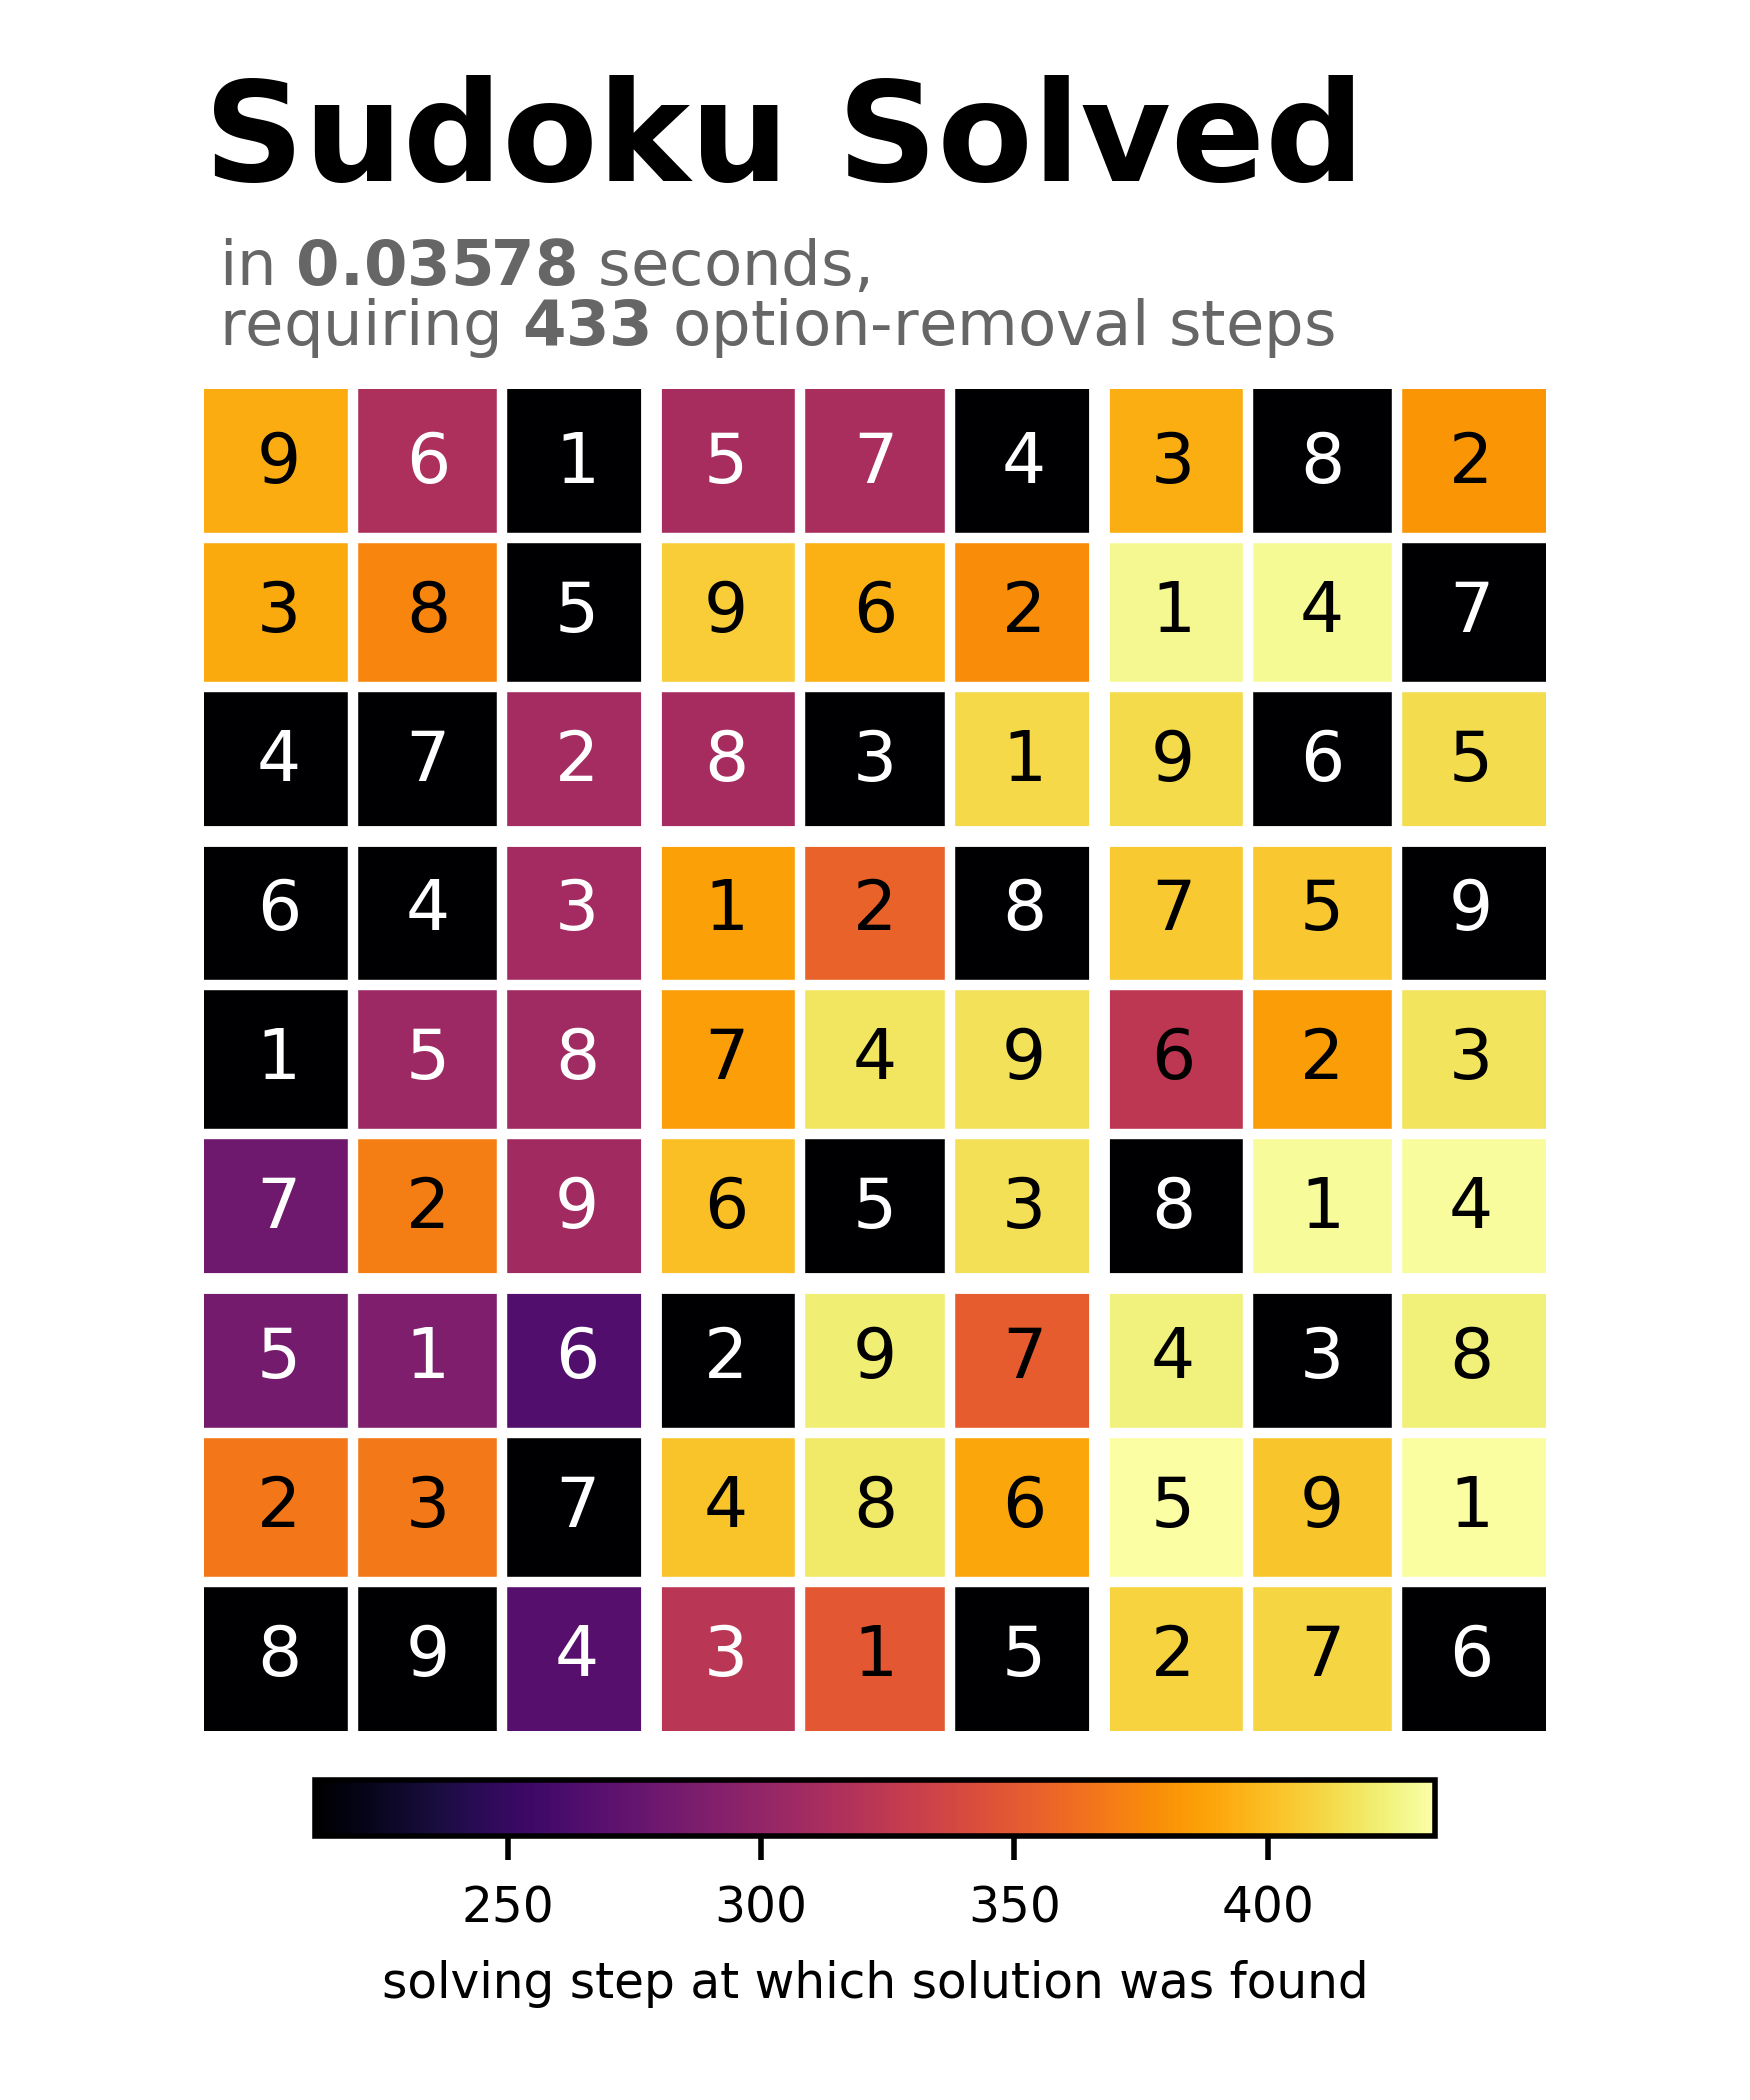
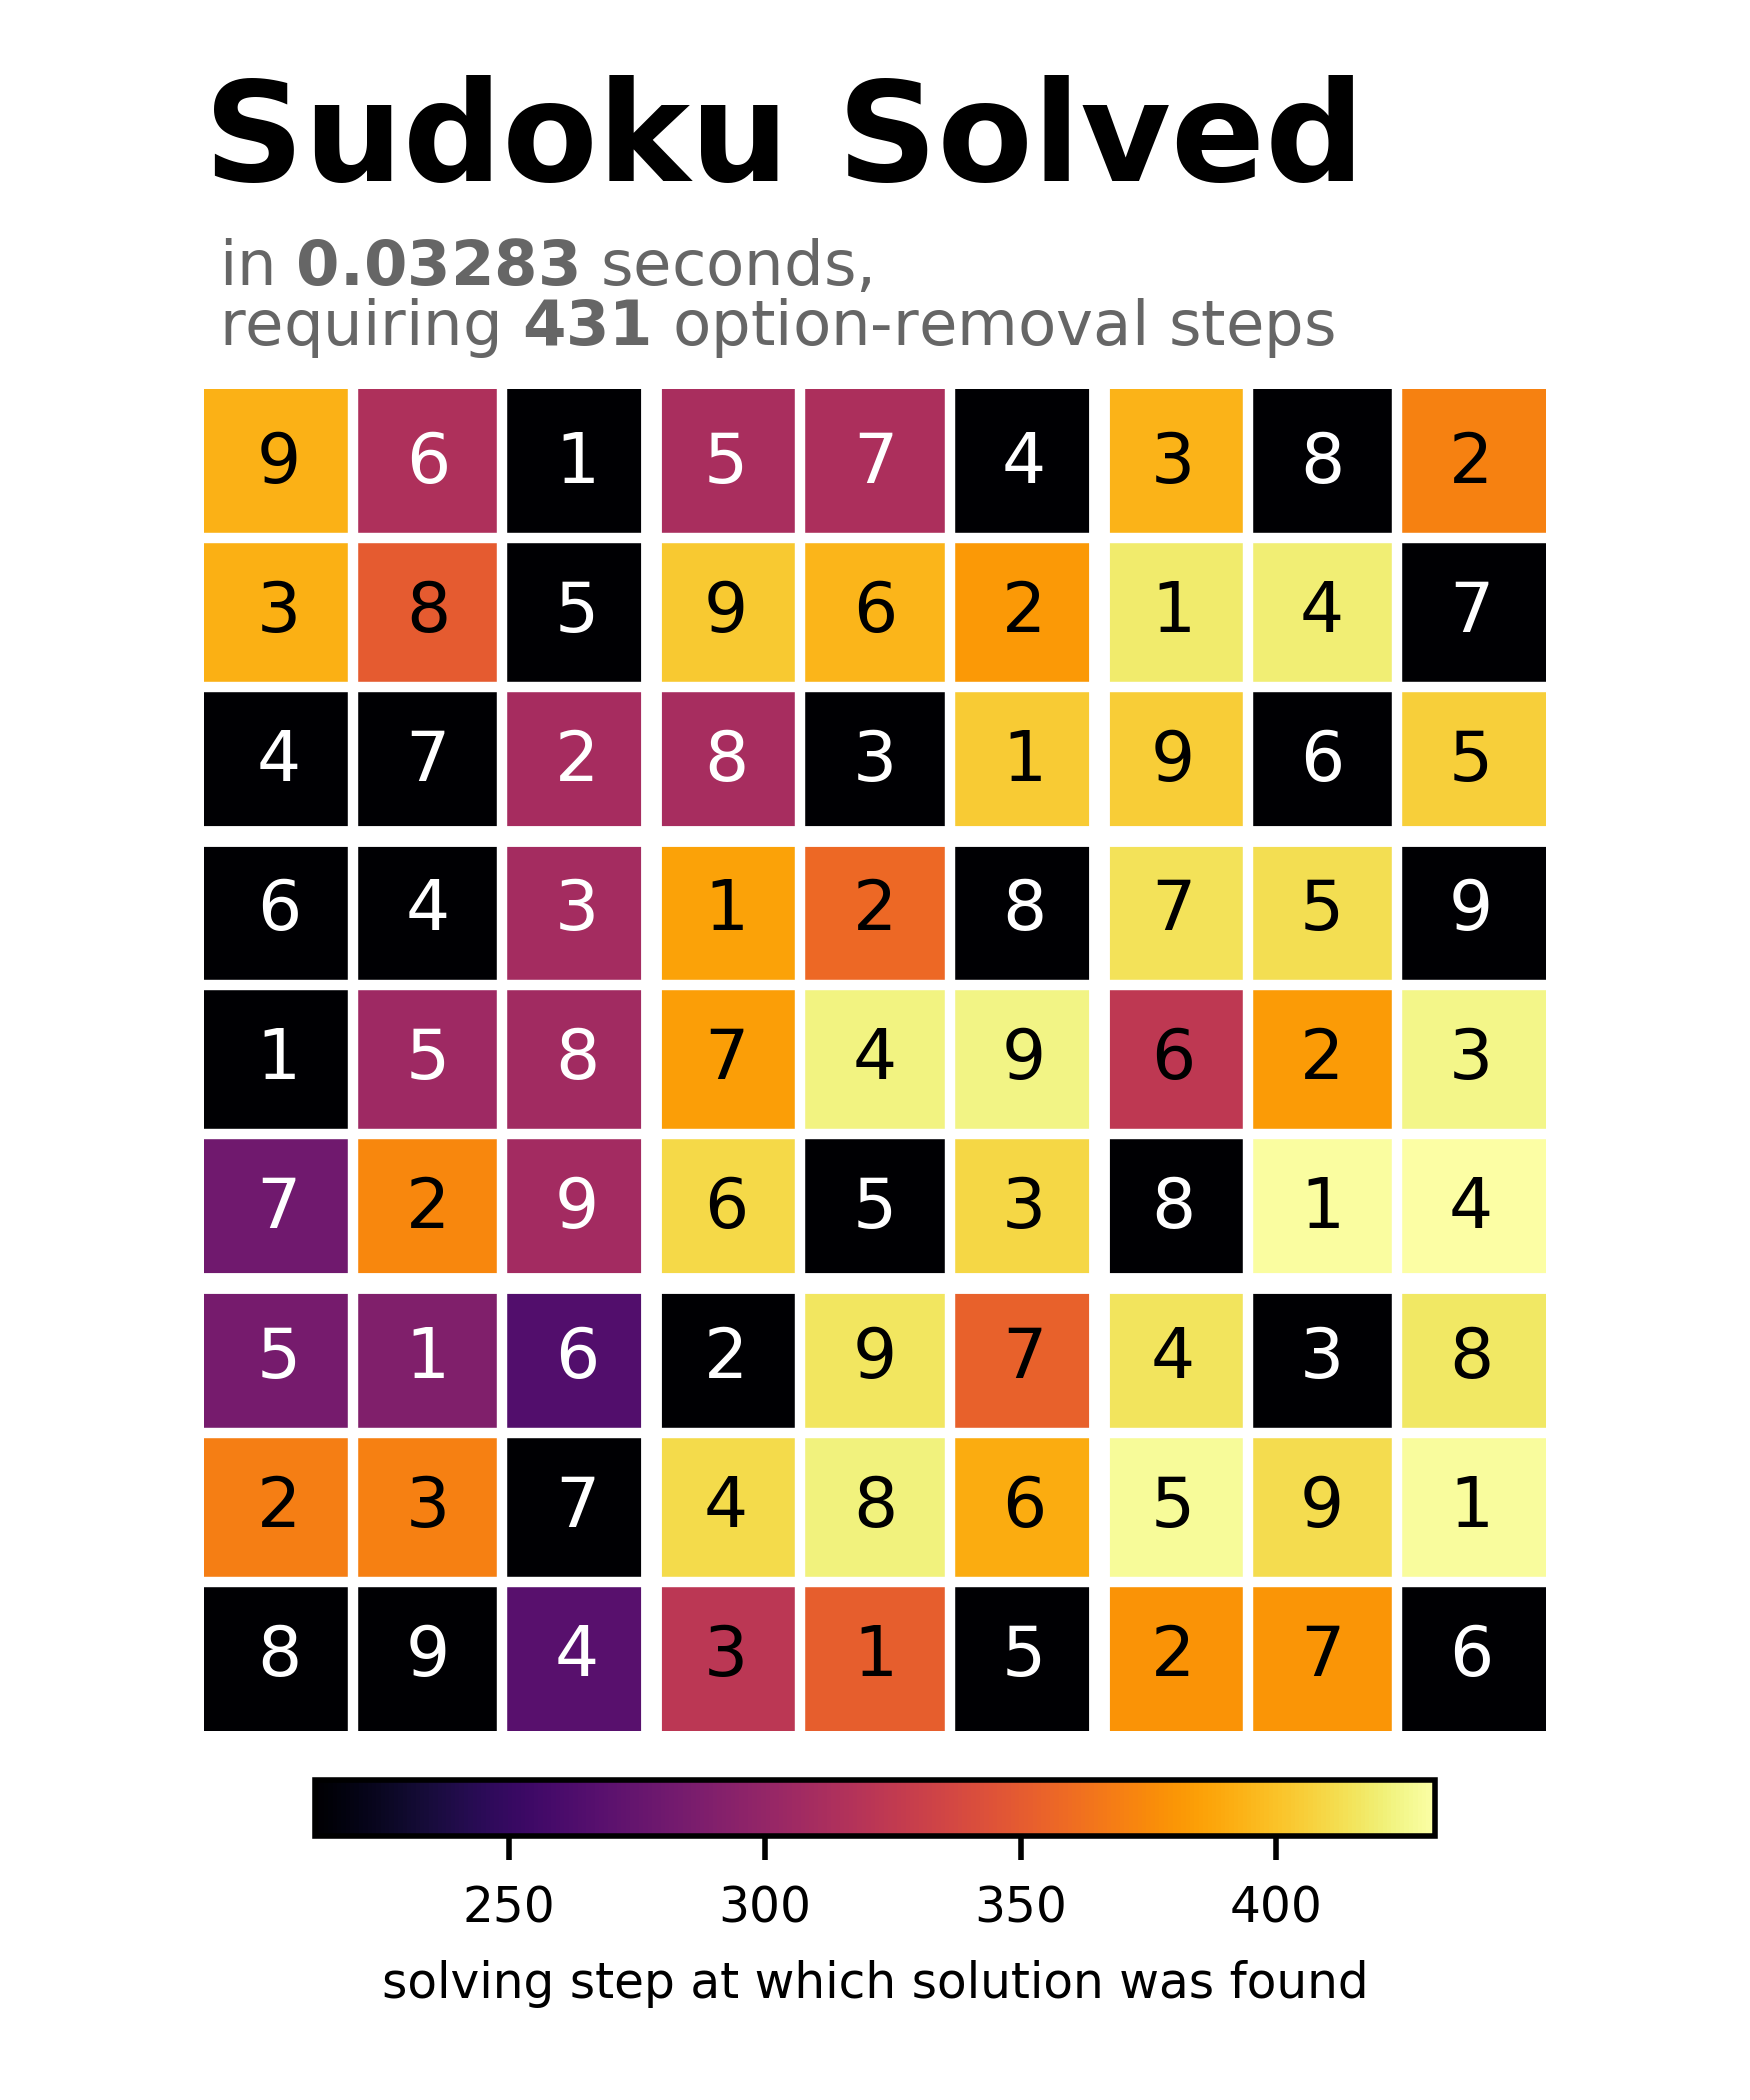
update README

diff --git a/use/example.py b/use/example.py
@@ -9,7 +9,7 @@ from matplotlib import pyplot as plt
 
 def solve(s: Sudoku) -> Sudoku:
     stepper = Skipper(print_grid)
-    solver = generate_solver([NTilesNOptions, XWing, YWing, Bifurcation], stepper)
+    solver = generate_solver([XWing, NTilesNOptions, YWing, Bifurcation], stepper)
     t0 = perf_counter()
     s = solver.launch(s)
     dt = perf_counter()-t0

diff --git a/src/sudoku/stdSolver.py b/src/sudoku/stdSolver.py
@@ -66,5 +66,5 @@ def save(sudoku: Sudoku, path: Path):
         writer(csvfile).writerows(sudoku.get_solved())
 
 if __name__=="__main__":
-    s = solve(load("examples/evil3.csv"), "grid", "skip")
+    s = solve(load("examples/evil3.csv"), "grid", "interesting")
     

diff --git a/README.md b/README.md
@@ -1,8 +1,16 @@
-# sudoku
+# sudoku-helper
 
-A Sudoku solver written in Python, serving as an exercise project for the `set` datatype. The puzzles to be solved are stored as `.csv` files.
+![GitHub](https://img.shields.io/github/license/wyssard/sudoku2) 
+![GitHub issues](https://img.shields.io/github/issues/wyssard/sudoku2)
 
-The solver operates by excluding candidates from tiles by removing the values of neighboring tiles that have already been fixed but also by using more elaborate strategies such as X- and Y-Wing. If the solver gets stuck, a bifurcation method is applied to tiles with only two candidates left.
+
+A Sudoku solver written in Python, serving as an exercise project for the `set` datatype. Observe that speed is no priority of this solver (hence displaying the time required to solve the puzzle might be rather hypocritical ;)). The project much rather focuses on providing a simple interface to guide the user step-by-step to the solution of the puzzle. A connection to that interface that allows for printing the individual solving steps to the console has already been implemented. Correspondingly, the solver tries to avoid the use of backtracking algorithms but solves the puzzle by means of algorithms that search for patterns that enable for the immediate exclusion of candidates. The creation of the solver was precisely motivated by the idea of finding such solving algorithms by my own.
+
+The solver thus operates by excluding candidates from tiles by removing the values of neighboring tiles that have already been fixed but also by using more elaborate strategies such as X- and Y-Wing. Only if the solver gets stuck, a bifurcation method is applied to tiles with only two candidates left to minimize backtracking. 
+
+The puzzles to be solved are stored as `.csv` files. Some example puzzles taken from [sudoku.com](https://www.sudoku.com) can be found in the [examples](/examples/) directory.
+
+
 
 ## Installation
 
@@ -26,12 +34,36 @@ from sudoku import load, solve, save
 and solve an example puzzle from the [example](/examples/) directory:
 
 ```python
-s = solve(load("/example/evil4.csv"), "grid", "skip")
+s = solve(load("/example/evil4.csv"), "grid", "interesting")
 ```
 
-where `"grid"` specifies the formatting of the puzzle in the console. The stepping argument `"skip"` prevents the solver from printing the individual solving steps to the console. Alternatively, every solving step can be printed using `"any"`; if only steps involving more elaborate solving methods are demanded, the stepping argument must be set to `"interesting"`. An optional boolean argument can be given to erase the previous solving step from the console. 
+where `"grid"` specifies the formatting of the puzzle in the console (no other formatted output is available at this stage). The 'stepping' argument `"interesing"` causes the solver to print any solving step to the console that made use of a more elaborate solving method. Alternatively, this argument can be set to `"any"` in order to print every solving step or to `"skip"` to prevent the solver from printing the steps completely. An optional boolean argument can be given to erase the previous solving step from the console thus deleting the solving history.
 
-The solved puzzle is then printed to the console as:
+Running the program, the user is prompted to step through the solving steps in the console; one such step could look like:
+
+```shell
+╭─────────────────────────────┬─────────────────────────────┬─────────────────────────────╮
+│ [8]      [3]      [5]       │ [2]      [7]      [6]       │ [9]      [4]      [1]       │
+│ [7]      [9]      [2]       │ [1,4,5]  [1,3,4]  [1,3,4]   │ [6]      [3,5]    [8]       │
+│ [1]      [6]      [4]       │ [8,5]    [8,3]    [9]       │ [3,7]    [3,5,7]  [2]       │
+├─────────────────────────────┼─────────────────────────────┼─────────────────────────────┤
+│ [4,5]    [8,2]    [9]       │ [6]      [8,2,4]  [8,2,4]   │ [3,7]    [1]      [3,5,7]   │
+│ [3]      [1]      [6]       │ [7]      [2,4]    [5]       │ [8]      [9,2]    [9,4]     │
+│ [4]      [8]      [7]       │ [3]      [9]      [1]       │ [2]      [6]      [5]       │
+├─────────────────────────────┼─────────────────────────────┼─────────────────────────────┤
+│ [6]      [5]      [1]       │ [8,4]    [8,2,3,4][8,2,3,4] │ [2,4]    [9,2,3,7][9,3,4,7] │
+│ [9]      [7]      [8]       │ [1,4]    [6]      [1,2,3,4] │ [5]      [2,3]    [3,4]     │
+│ [2]      [4]      [3]       │ [9]      [5]      [7]       │ [1]      [8]      [6]       │
+╰─────────────────────────────┴─────────────────────────────┴─────────────────────────────╯
+
+solving step 397: found Y-Wing with anchor at 60 and nodes at 70, 71, remove the shared option {3} from 68
+status: ok
+next step: (press ENTER)
+```
+
+(the concerned tiles are highlighted by means of ANSI escape sequences)
+
+Eventually, the solved puzzle is printed to the console as:
 
 ```shell 
 ╭───────────┬───────────┬───────────╮
@@ -49,6 +81,8 @@ The solved puzzle is then printed to the console as:
 ╰───────────┴───────────┴───────────╯
 ```
 
+
+
 Save the solved puzzle as a `.csv` file using the `save` function:
 
 ```python
@@ -57,15 +91,12 @@ save(s, "solved.csv")
 
 ### Custom Solver
 
-Instead of using the default solver, the `sudoku.generate_solver` function may be used to manually specify the solving methods one likes to use. This solver-generator is based on the idea of extending the solver by implementing custom solving methods. Such solving methods should inherit from the `sudoku.solvingmethods.FmtSolvingMethod` abstract class. An example that makes use of this function to customize the solver can be found in the [example.py](/use/example.py) file. This script also provides a function to plot the solved puzzle using matplotlib. The corresponding result for the puzzle from above can then be rendered as:
+Instead of using the default solver, the `sudoku.generate_solver` function may be used to manually specify the solving methods one likes to use. This solver-generator is based on the idea of extending the solver by implementing custom solving methods. Such solving methods should inherit from the `sudoku.solvingmethods.FmtSolvingMethod` abstract class. Observe that this feature is still in development. The creation of custom solver classes is not straight forward at this stage and would require the user to dig into the code of the present solving methods.
+
+An example that makes use of this function to customize the solver can be found in the [example.py](/use/example.py) file. This script also provides a function to plot the solved puzzle using [matplotlib](https://github.com/matplotlib/matplotlib). The corresponding result for the puzzle from above can then be rendered as:
 
 ![solved.png](img/solved.png)
 
 ## Solving Methods
 
 A brief description of the solving methods used should go here.
-
-## To Do
-
-- [ ] inline documentations
-- [ ] solving-method descriptions
